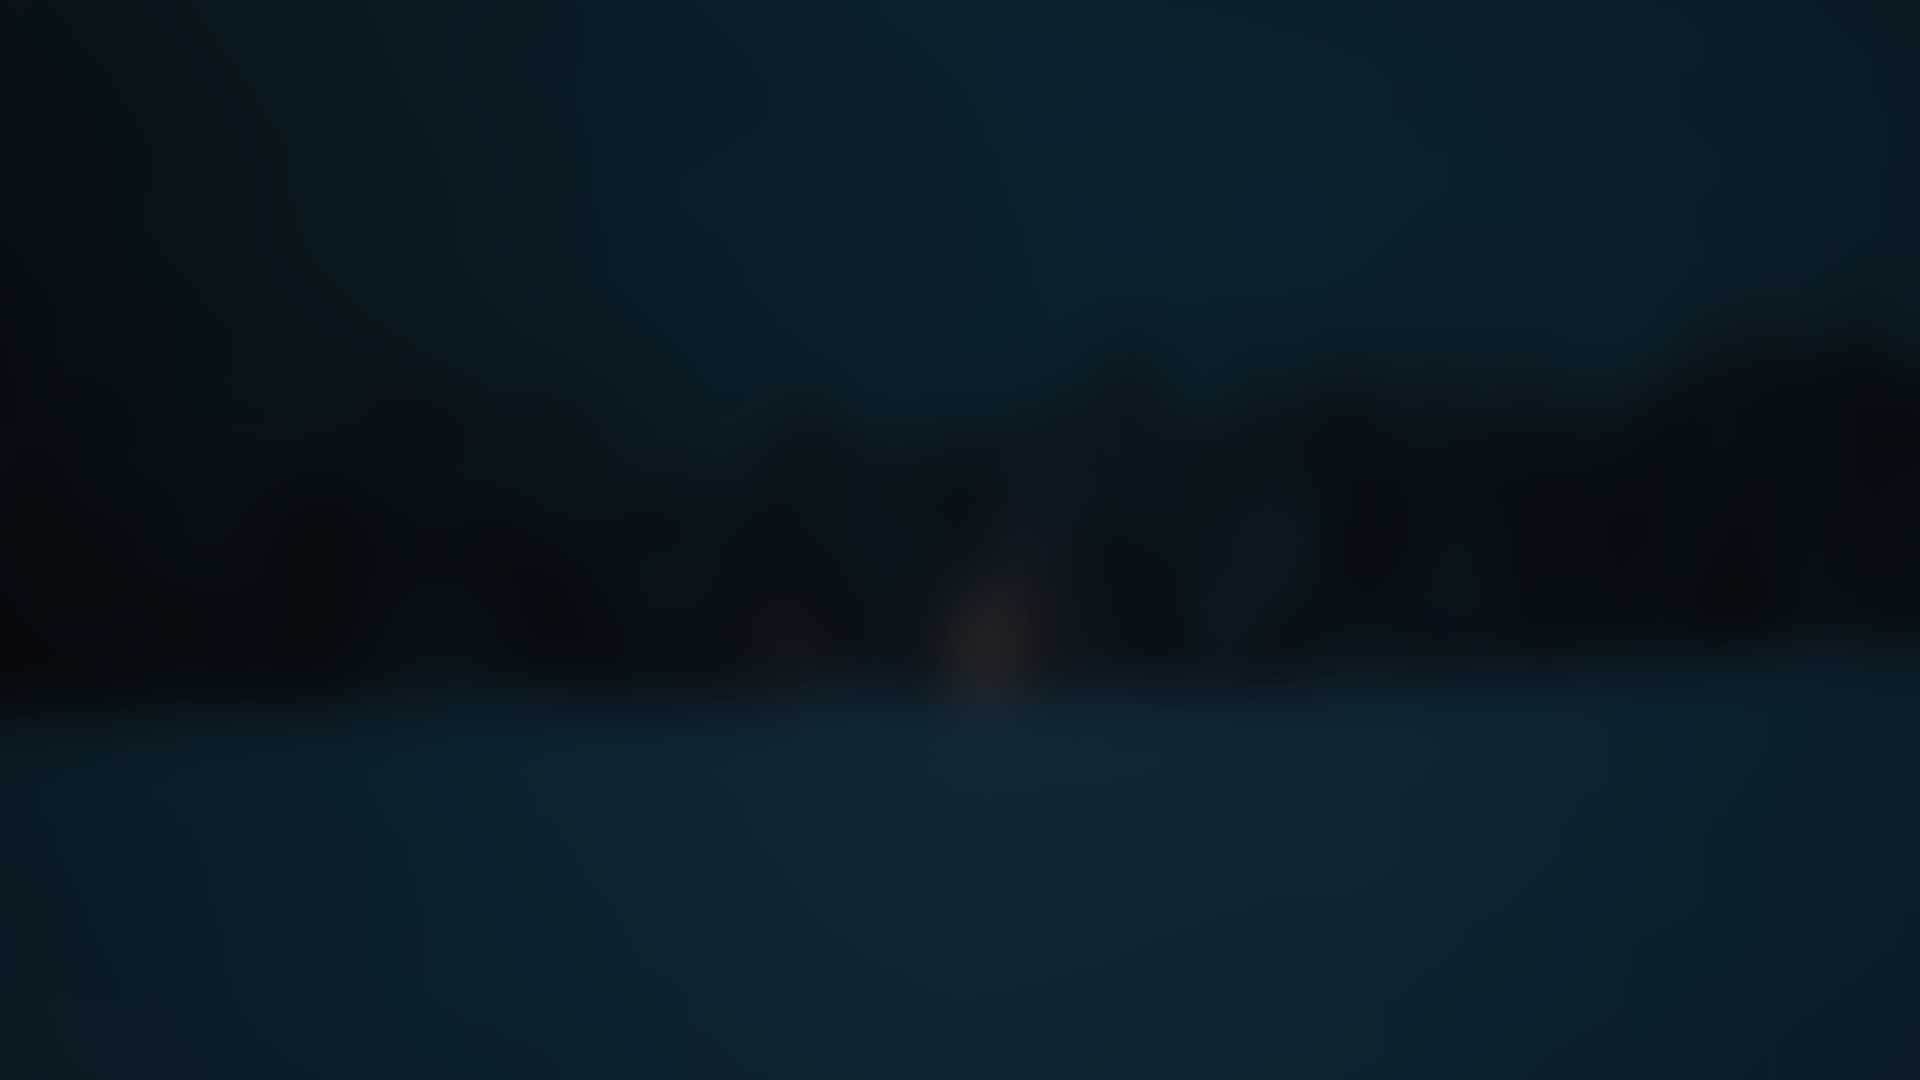
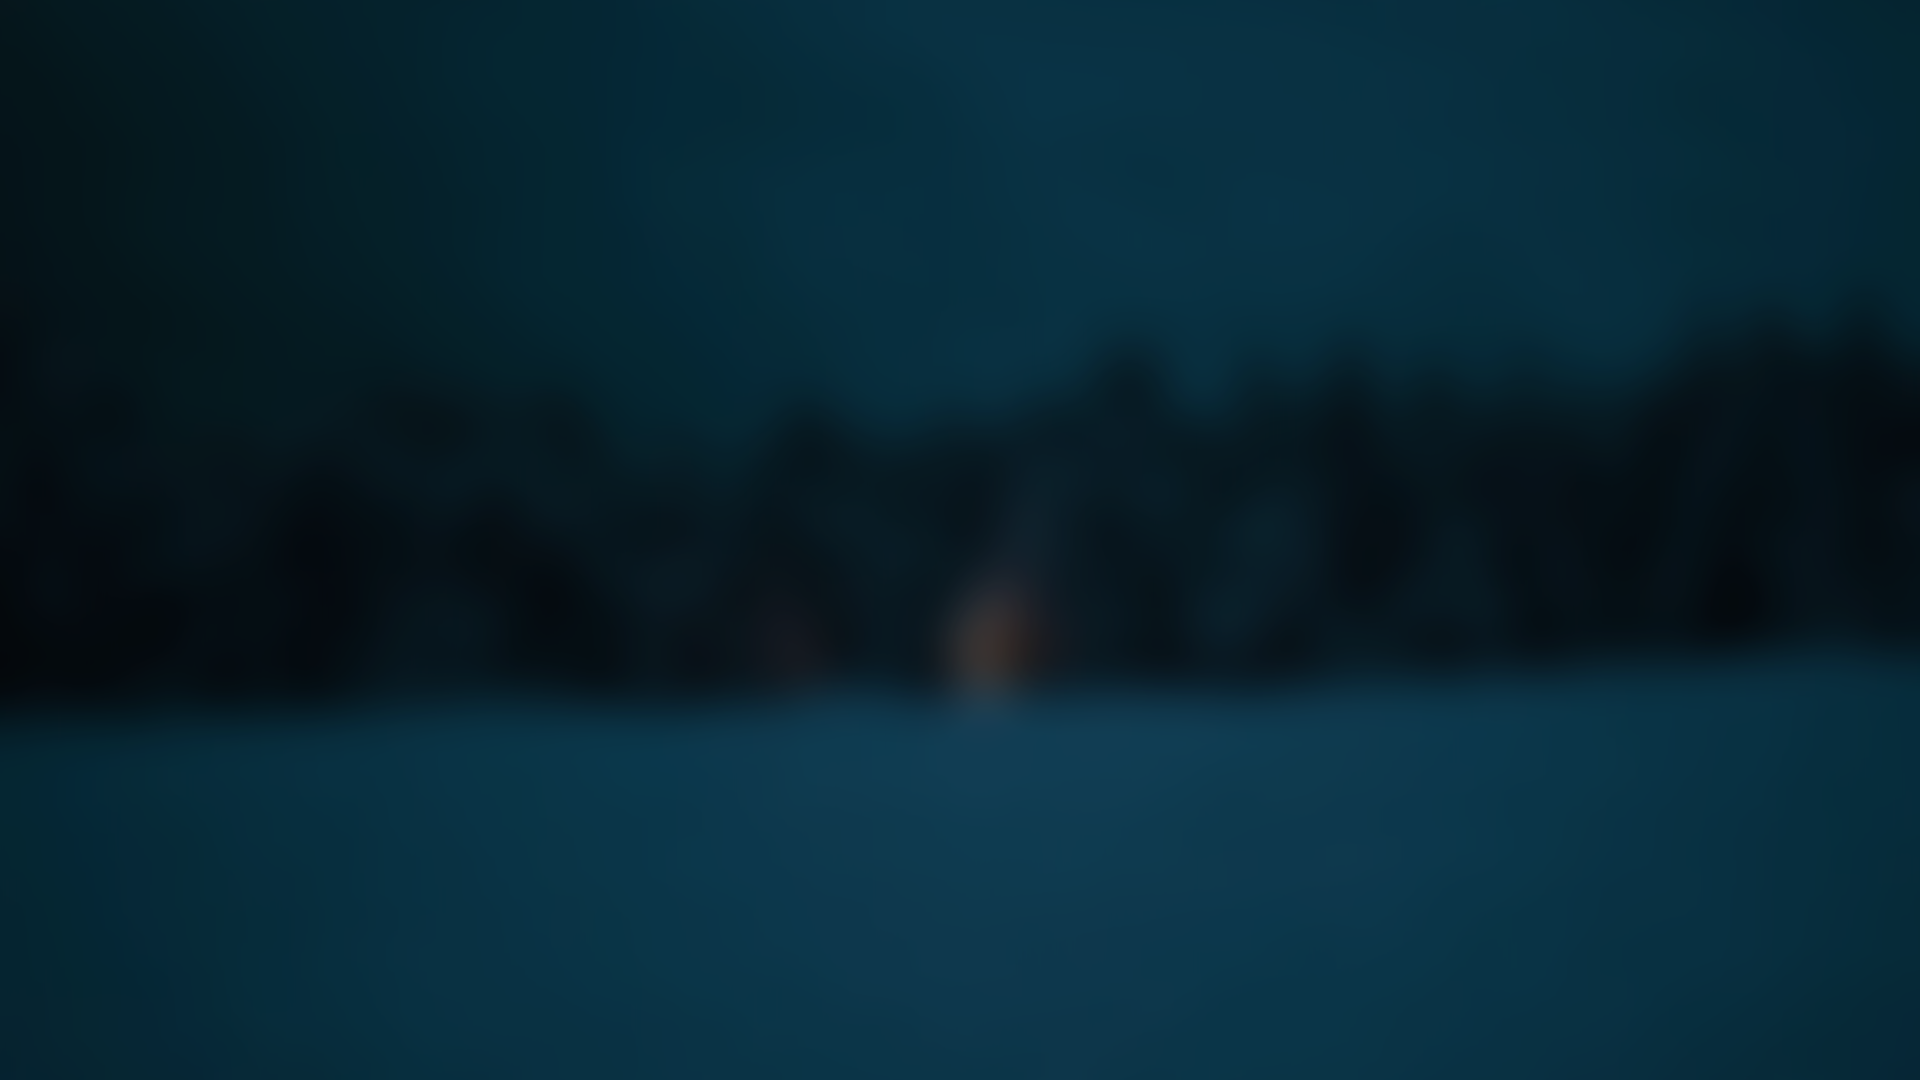
Polish windows, Alt+Tab and the lock screen
- Chrome's own frame left a 4 px dark edge with square bottom corners; picom now gives it the same corners and shadow as other windows
- title bars keep minimize, maximize and close (no window menu or shade button); Thunar opens without the menubar, its menu sits in the toolbar
- WhiteSur-Night (make-icon-overlay): WhiteSur-dark draws folders as white outlines below 32 px, the overlay reuses its colored folders at 16-24 px
- Alt+Tab: icons only on a navy glass card, the app name that was cut to "Xfce4..." under each icon hidden, the window title below; no stand-in previews (xfwm4's compositor is off) and no blue tint over the selected window
- lock screen: the name instead of the login, the Spotify track under the date; the background is darkened to a fixed mean brightness, so a dark wallpaper keeps its shapes

diff --git a/files/config/gtk-3.0/gtk.css b/files/config/gtk-3.0/gtk.css
@@ -375,18 +375,22 @@ window.xfce4-panel {
 #xfwm-tabwin {
   -XfwmTabwinWidget-preview-size: 200;
   -XfwmTabwinWidget-border-radius: 22;
-  padding: 18px;
+  padding: 20px 24px 12px;
   border-radius: 22px;
   border: 1px solid rgba(255, 255, 255, 0.08);
-  background-color: rgba(22, 23, 28, 0.84);
+  background-color: rgba(26, 27, 38, 0.86);
 }
+/* icons only (xfwm4's compositor is off, so its "previews" were drawings of an empty window) */
 #xfwm-tabwin button {
-  padding: 10px;
+  padding: 14px;
+  margin: 0 3px;
   border: none;
-  border-radius: 14px;
+  border-radius: 18px;
   background: transparent;
   box-shadow: none;
 }
+/* the app name under each icon is cut to "Xfce4…" at this width; the window title shows below */
+#xfwm-tabwin button label { font-size: 1px; color: transparent; }
 #xfwm-tabwin button:hover {
   background: rgba(255, 255, 255, 0.07);
 }

diff --git a/files/share/lockscreen.py b/files/share/lockscreen.py
@@ -11,6 +11,7 @@ import datetime as dt
 import getpass
 import math
 import os
+import pwd
 import signal
 import subprocess
 import sys
@@ -146,10 +147,32 @@ def find_monitors(randr, w, h):
     return sorted(out) or [(0, 0, w, h)]
 
 
+def now_playing():
+    """Spotify's track as one line for under the date, or None."""
+    try:
+        out = subprocess.run(['playerctl', '-p', 'spotify', 'metadata', '--format',
+                              '{{status}}\t{{title}}\t{{artist}}'],
+                             capture_output=True, text=True, timeout=0.5).stdout.strip()
+    except (OSError, subprocess.SubprocessError):
+        return None
+    parts = out.split('\t')
+    if len(parts) != 3 or not parts[1]:
+        return None
+    status, title, artist = parts
+    line = f'{title} · {artist}' if artist else title
+    if len(line) > 64:
+        line = line[:63] + '…'
+    return ('♪  ' if status == 'Playing' else '⏸  ') + line
+
+
 class LockScreen:
     def __init__(self, auth):
         self.auth = auth
         self.user = getpass.getuser()
+        # the full name from passwd, or the login with a capital letter
+        gecos = pwd.getpwuid(os.getuid()).pw_gecos.split(',')[0].strip()
+        self.name = gecos or self.user.capitalize()
+        self.track = now_playing()
         self.chars = []
         self.state = 'idle'        # idle, typing, checking, wrong
         self.message = None        # (text, rgb) under the pill
@@ -232,7 +255,9 @@ class LockScreen:
         top = h * 0.17
         top += text(cr, now.strftime('%H:%M'), 'Inter Display SemiBold', 128 * s, (*FG, 0.96), cx, top)
         date = f'{WEEKDAYS[now.weekday()]}, {now.day} {MONTHS[now.month - 1]}'
-        text(cr, date, 'Inter Medium', 22 * s, (*FG_DIM, 0.9), cx, top - 6 * s)
+        top += text(cr, date, 'Inter Medium', 22 * s, (*FG_DIM, 0.9), cx, top - 6 * s)
+        if self.track:
+            text(cr, self.track, 'Inter Medium', 15 * s, (*FG_DIM, 0.62), cx, top + 10 * s)
 
         # avatar: initial on the accent gradient
         r = 44 * s
@@ -243,10 +268,10 @@ class LockScreen:
         cr.arc(cx, ay, r, 0, 2 * math.pi)
         cr.set_source(grad)
         cr.fill()
-        initial = self.user[:1].upper()
+        initial = self.name[:1].upper()
         text(cr, initial, 'Inter SemiBold', 40 * s, (*NAVY, 1), cx, ay - 25 * s)
         ny = ay + r + 14 * s
-        ny += text(cr, self.user, 'Inter SemiBold', 20 * s, (*FG, 1), cx, ny)
+        ny += text(cr, self.name, 'Inter SemiBold', 20 * s, (*FG, 1), cx, ny)
 
         # password pill
         pw, ph = 264 * s, 40 * s
@@ -330,6 +355,8 @@ class LockScreen:
     def tick(self):
         if self.auth:
             self.follow_monitors()
+        if int(time.time()) % 5 == 0:
+            self.track = now_playing()
         self.area.queue_draw()
         if self.auth and time.monotonic() - self.last_key > IDLE_EXIT and self.state != 'checking':
             self.quit(EXIT_FAIL)

diff --git a/README.md b/README.md
@@ -33,9 +33,9 @@ screen, all in the Tokyo Night palette.
   day off sits at the bottom. EN/PL in the corner (or the L key) switches its language. With Google
   calendars connected, days with events get a dot, the agenda lists today (or the day you click)
   and what is coming up, and clicking an event opens that day in Google Calendar.
-- **Lock screen**: a live clock and a password field with dots on every monitor, drawn by a small
-  [xsecurelock](https://github.com/google/xsecurelock) module. PAM still checks the password, and
-  any error in the module switches back to the stock prompt.
+- **Lock screen**: a live clock, the Spotify track and a password field with dots on every
+  monitor, drawn by a small [xsecurelock](https://github.com/google/xsecurelock) module. PAM still
+  checks the password, and any error in the module switches back to the stock prompt.
 - **Launcher**: rofi in a Spotlight style with tabs for apps, windows, files, a calculator and emoji.
 - **Terminal**: Ghostty in Tokyo Night with JetBrains Mono. Tabs sit in the title bar with a + button
   and open in the current folder. A Starship prompt, fastfetch and btop use the same colors, and the
